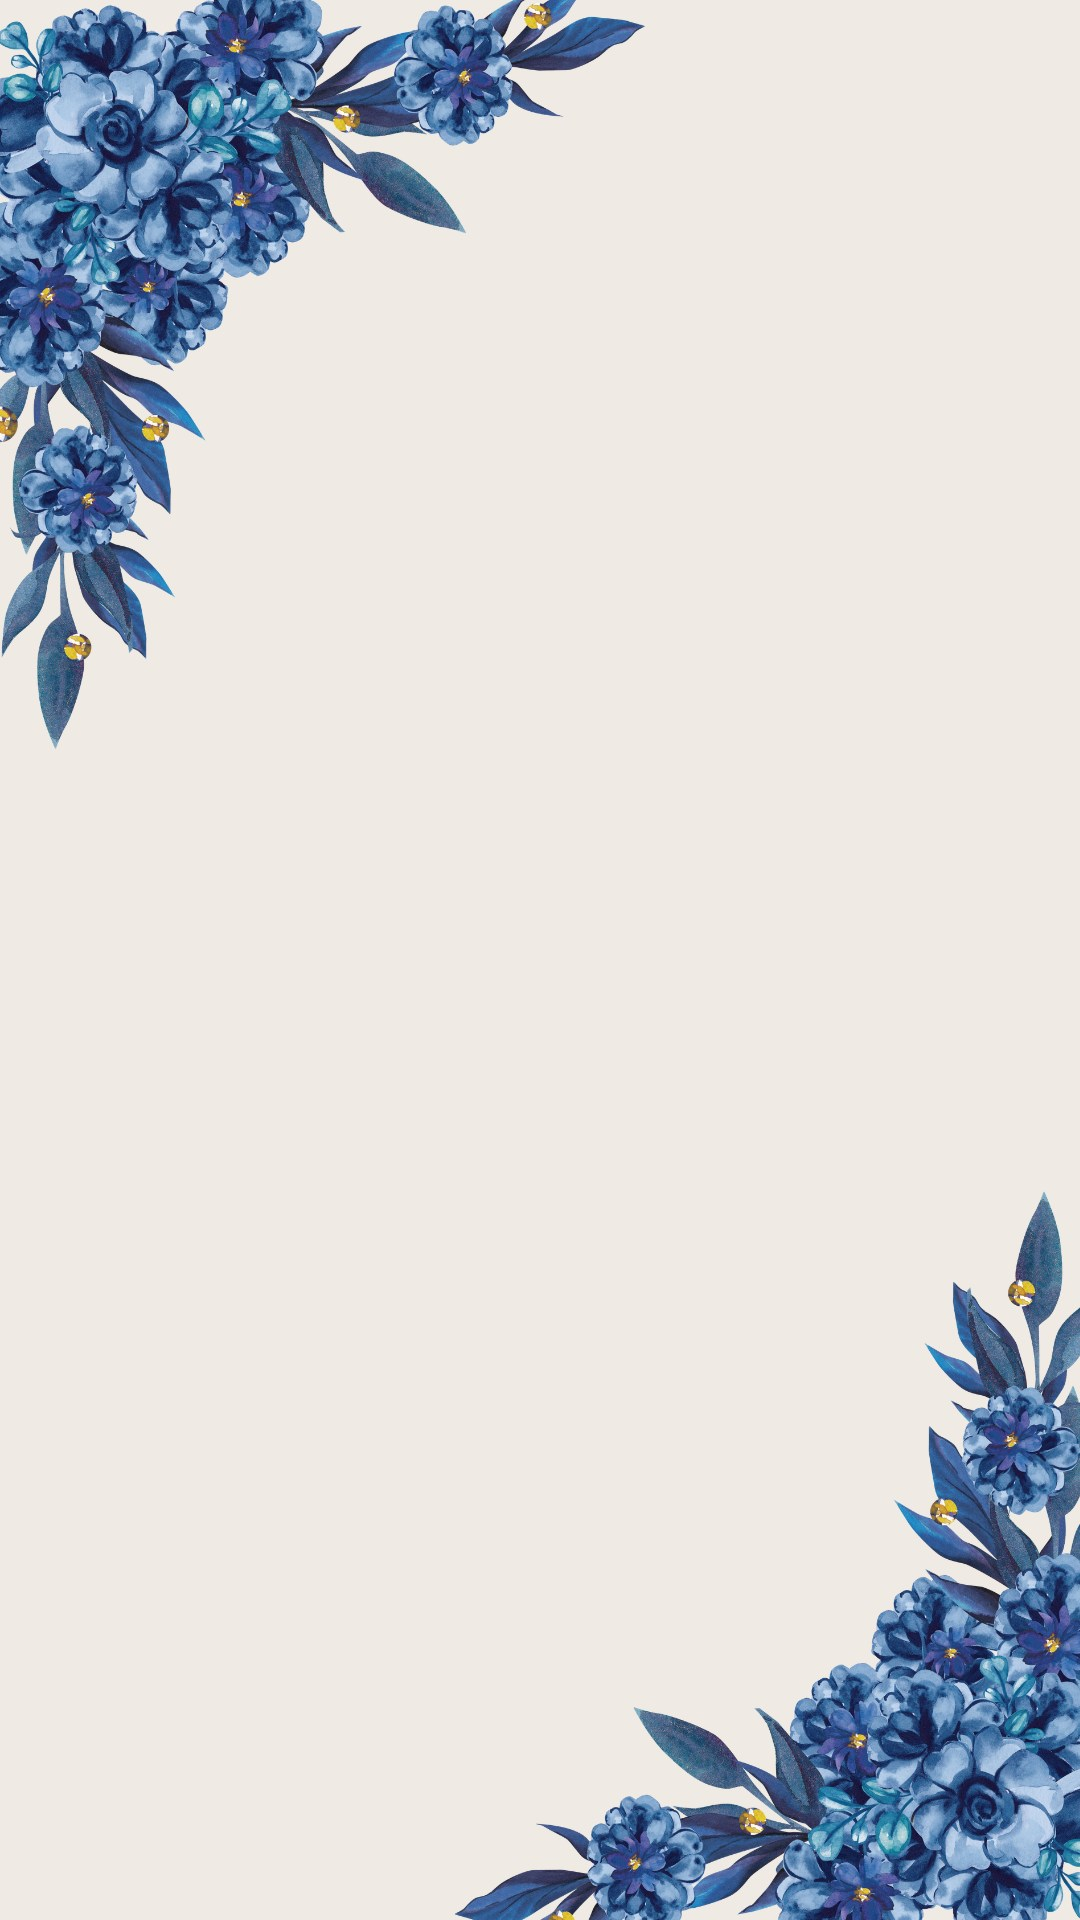
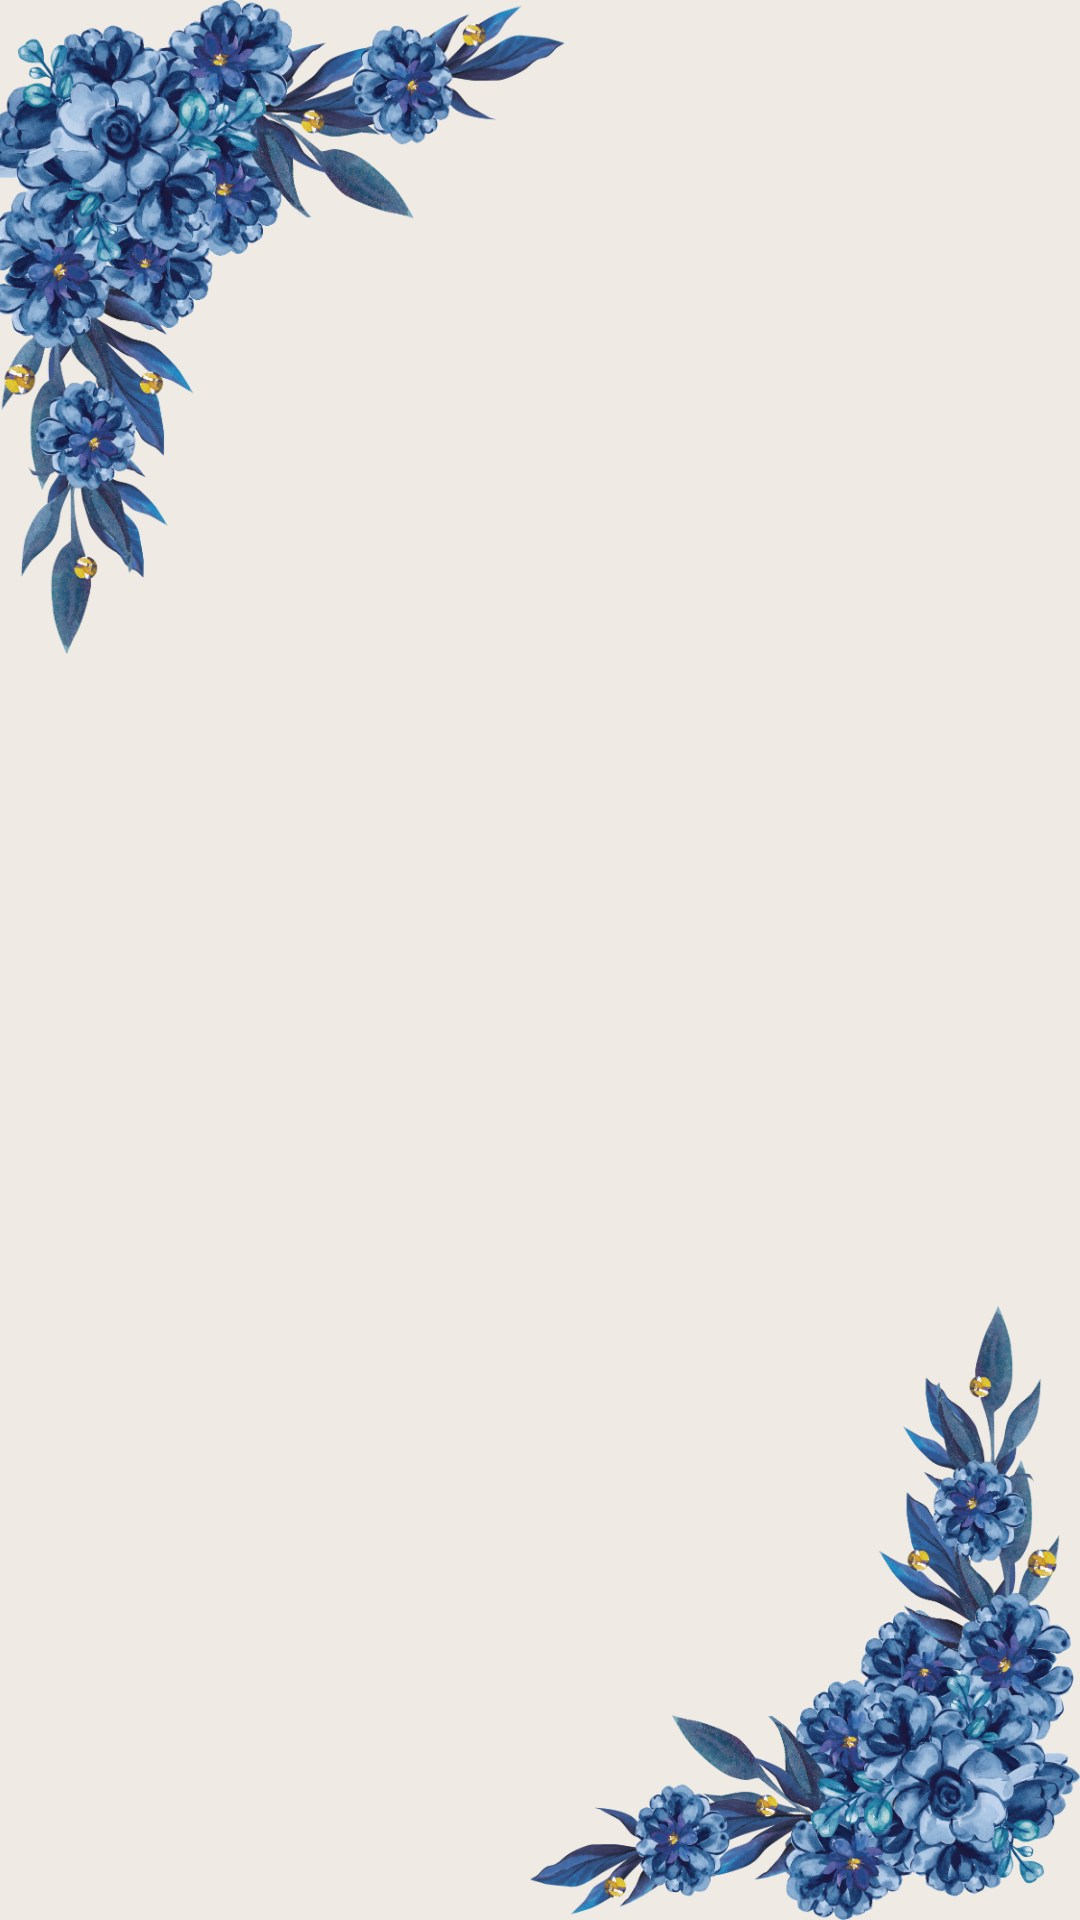
ganti bg profile dan tulisan nya digedein dikit

Changed region(s): [[0.0, 0.0, 0.5806, 0.4062], [0.4278, 0.625, 1.0, 1.0]]

diff --git a/index.html b/index.html
@@ -232,7 +232,7 @@
 
         .teks-pembuka {
             font-family: 'Cormorant Garamond', serif; /* Ini font elegannya coi */
-            font-size: 0.9rem; /* Udah dikecilin dikit dari sebelumnya 0.95rem */
+            font-size: 0.93rem; /* Udah dikecilin dikit dari sebelumnya 0.95rem */
             font-style: italic; /* Dikasih efek miring biar kerasa sakral dan mahal */
             font-weight: 600; /* Ketebalan dikurangin biar gak terlalu ngeblok */
             line-height: 1.6;